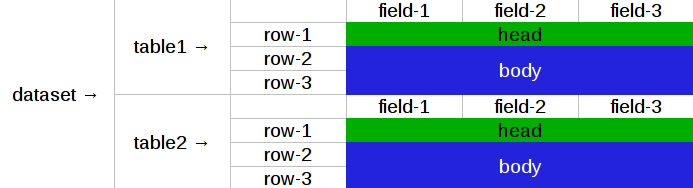
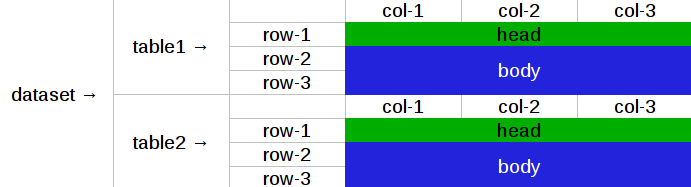
updated readme

diff --git a/README.md b/README.md
@@ -70,9 +70,9 @@ All errors in a report are standartised and described in data quality spec - htt
 
 #### Error types
 
-- source errors - data can't be loaded or parsed
-- structure errors - general tabular errors like duplicate headers
-- schema errors - error of checks against JSON Table Schema
+- source - data can't be loaded or parsed
+- structure - general tabular errors like duplicate headers
+- schema - error of checks against JSON Table Schema
 
 #### Error contexts
 
@@ -80,7 +80,7 @@ All errors in a report are standartised and described in data quality spec - htt
 - head - headers errors
 - body - contents errors
 
-Contexts and field/rows coordinates are presented on a figure 1:
+Contexts and rows/columns coordinates are presented on a figure 1:
 
 ![Table](files/table.png)
 
